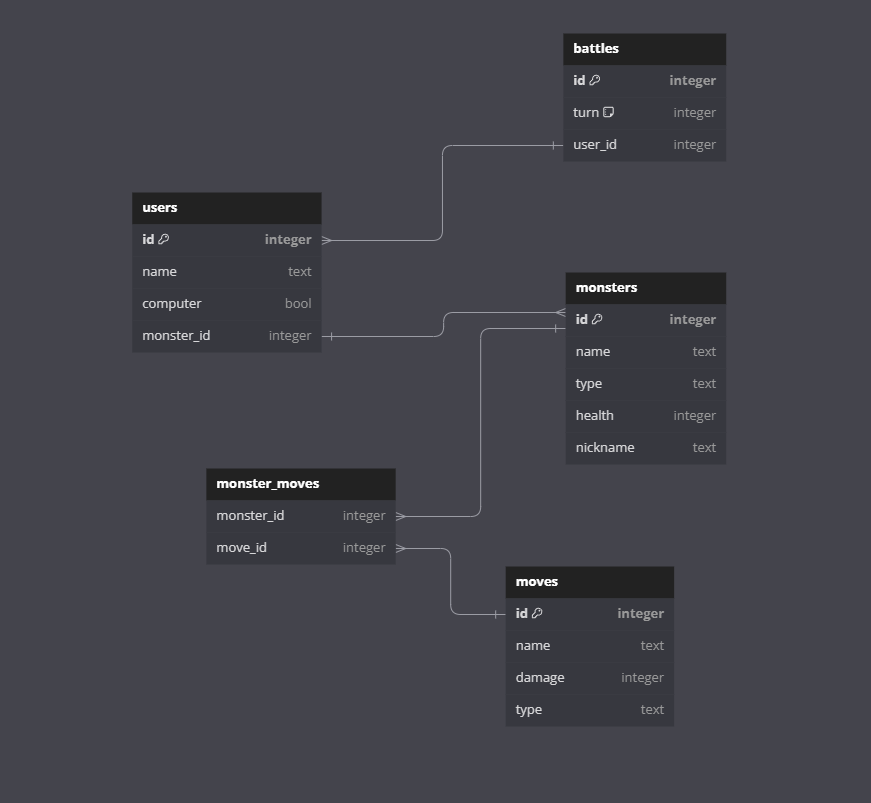
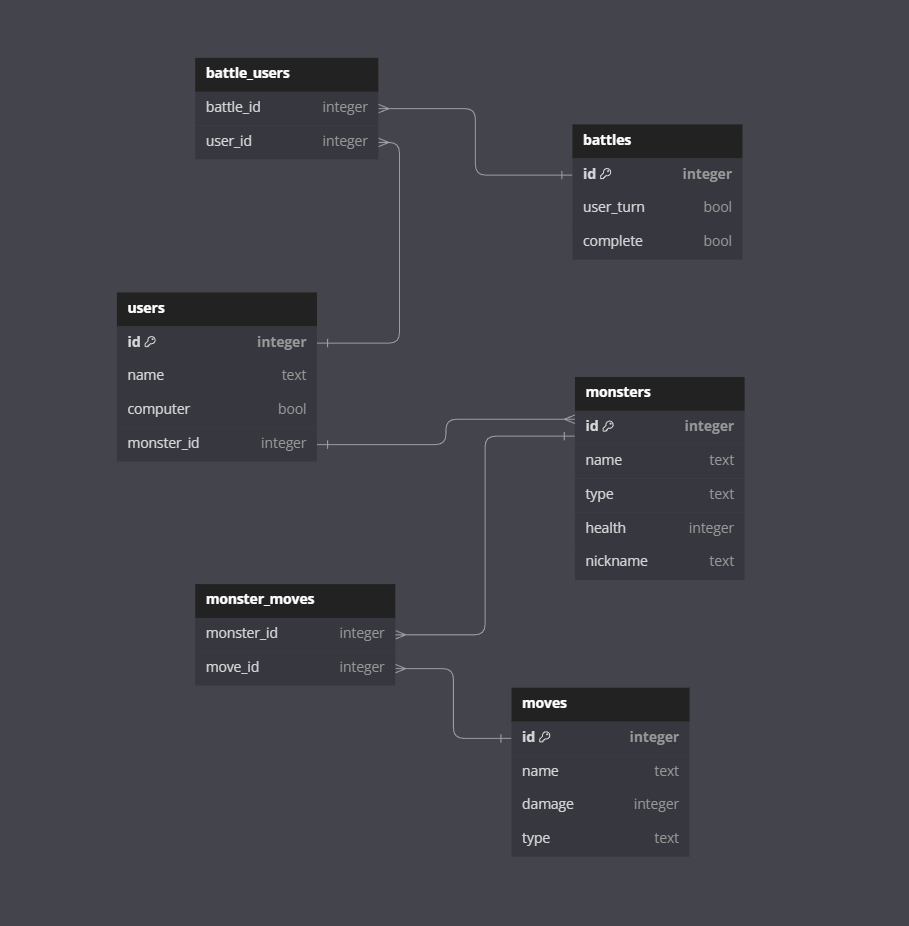
Updated ERD and Domain Model to accommodate new attribute complete to battle model and also the many-to-many relationship for battle and user

diff --git a/README.md b/README.md
@@ -3,9 +3,9 @@
 ## **Short Description**
 The user will be able to pick 1 of 3 monsters to battle another monster!
 ## **Domain Model**
-![Domain Model](https://imgur.com/ZXTAka4.png)
+![Domain Model](https://imgur.com/fdvuG4M.png)
 ## **ERD**
-![ERD](https://imgur.com/ObE6o0g.png)
+![ERD](https://imgur.com/hoZ5QTF.png)
 ## **Wireframes**
 ****Main Menu****
 ![Main Menu Wireframe](https://imgur.com/PCDZqhE.png)
@@ -18,25 +18,26 @@ The user will be able to pick 1 of 3 monsters to battle another monster!
 ## **React Components Tree**
 ![React Components Tree](https://imgur.com/NM04eQk.png)
 ## **MVP**
-C - User, Battle\
-R - User, Battle\
+C - User, Battle, Monster\
+R - User, Battle, Monster, Move\
 U - User\
 D - User, Battle
 ## **Backend**
 ### Models
 - User
     - Relationships
-        - A `User` has many `Monsters` and a `Battle`
+        - A `User` has many `Monsters` and `Battles`
     - Validations
         - Must have `name` that is of type string, and `computer` that is of type boolean
 - Battle
     - Relationships
         - A `Battle` has many `Users`
     - Validations
-        - Must have `turn` of type integer
+        - Must have `user_turn` of type bool and `complete` of type bool
 - Monster
     - Relationships
-        - A `Monster` has many `Moves` and a `User`
+        - A `Monster` has many `Moves`
+        - A `Monster` belongs to a `User`
     - Validations
         - Must have a `name` of type string, `type` of type string, `health` of type integer, and an optional `nickname` of type string
 - Move
